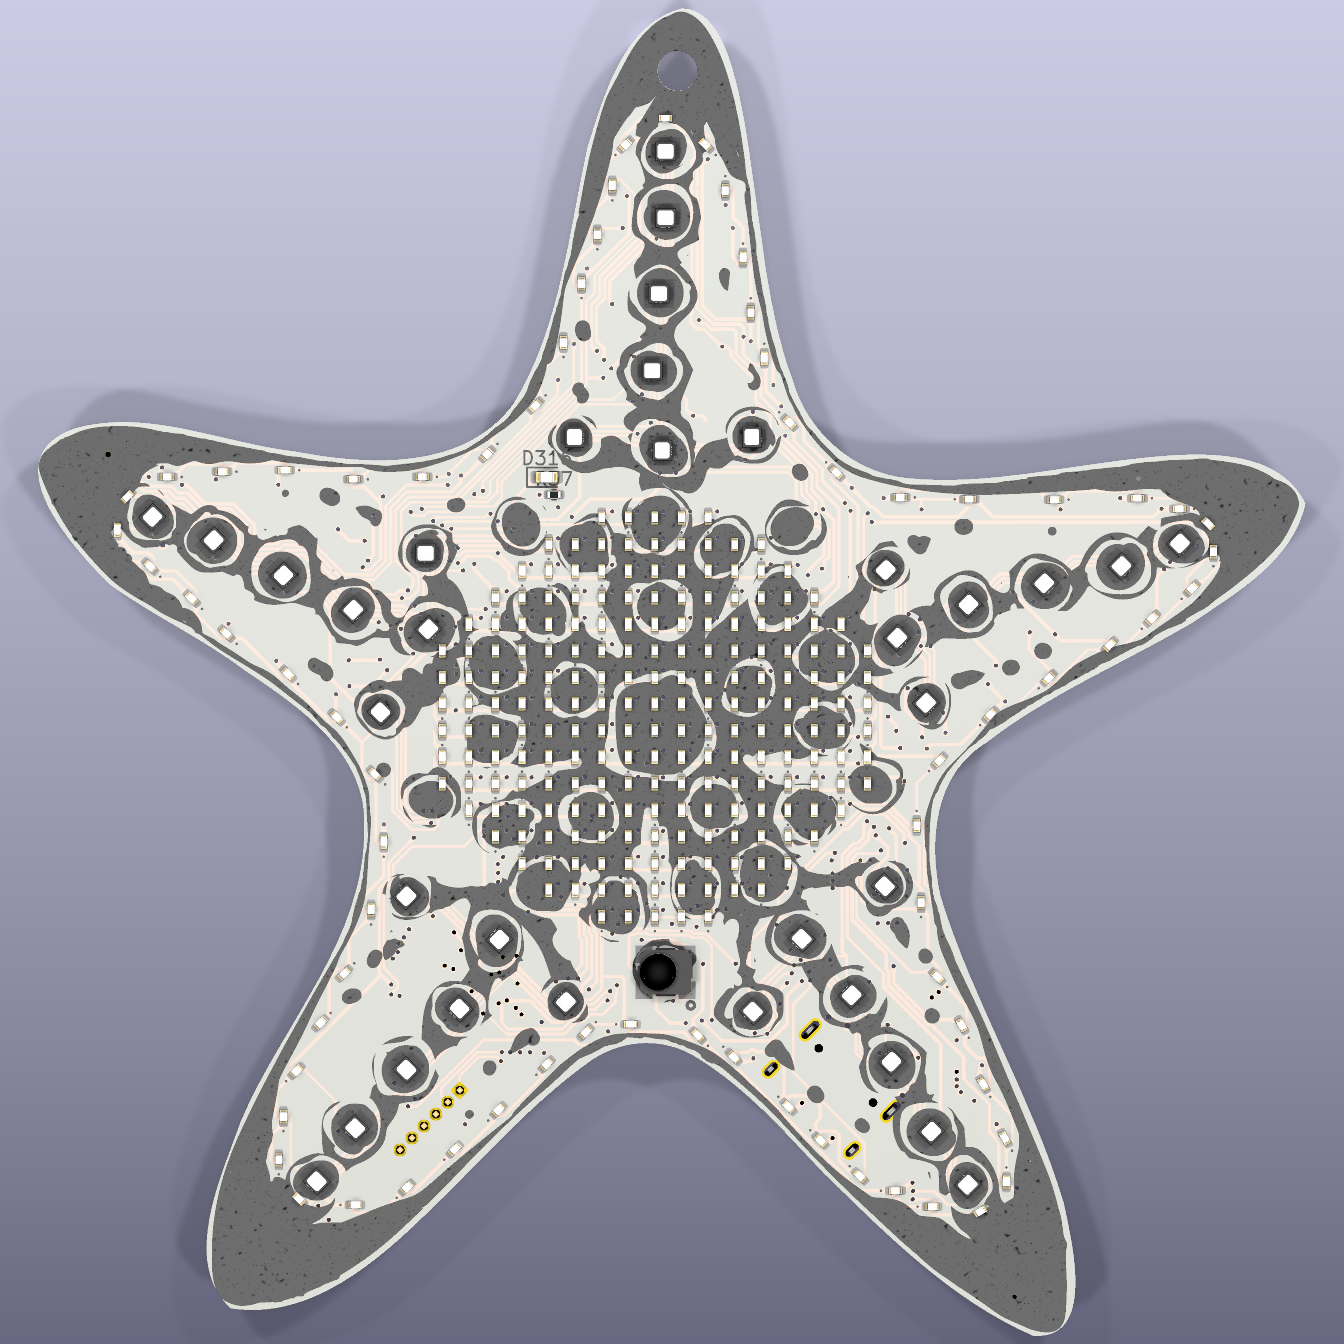
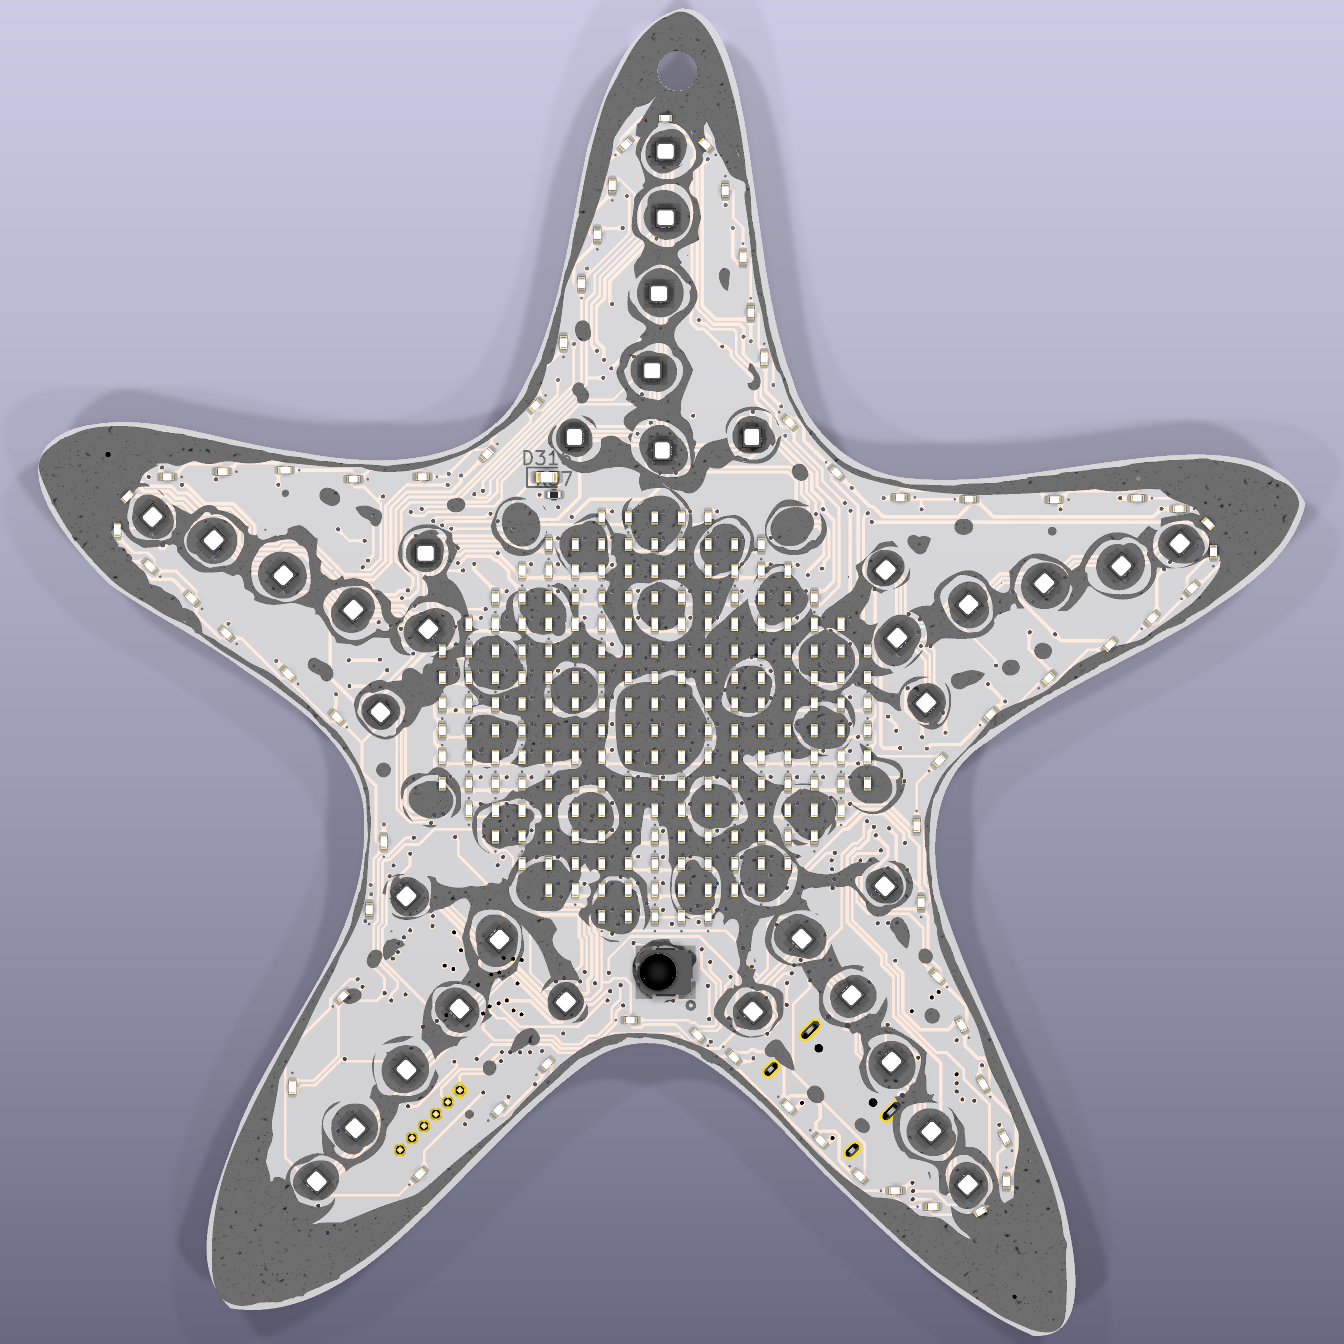
Follow hardware 1ce1163: 63 outline LEDs; fix the emulator's outline order
Hardware 1ce1163 took eight outline LEDs out "for now" (D3, D4, D12,
D19, D286, D289, D290, D309) and moved six (D1 now sits where D19 was);
no remaining LED changed nets. tools/gen_layout.py regenerates the
tables: 63 outline LEDs instead of 71, grid and RGB unchanged, 376 of
384 slots used. Every outline effect already takes its length from
EDGE_LEDS / EDGE.len().

The emulator interface had the outline count fixed at 71 in the frame
size: EMU_ABI 2 adds emu_edge_leds(), EMU_FRAME_MAX bounds a frame, and
emu.py checks the firmware and the board render agree.

Fixing that showed an older bug: tools/sim/hh2027.py sorted the outline
from the bottom (atan2 in -pi..pi) while gen_layout.py and so the
firmware start at the top, so the emulator and every docs GIF drew the
outline about half a turn out of place. Layout now sorts exactly as
gen_layout.py does (1/256 turn, ties in board order); checked identical
for this board and the previous one. Board render and LED data refreshed.

BRINGUP.md: scope VCC ripple with every LED on, as C4 (100 nF on VCC) is
out in 1ce1163.

Claude-Session: https://claude.ai/code/session_01JRoRnFujiuwJRADJPiRxt8

diff --git a/src/generated.rs b/src/generated.rs
@@ -33,14 +33,14 @@ pub const GRID: [[Slot; GRID_W]; GRID_H] = [
     [  NONE,   NONE,   NONE,   NONE,   NONE,   NONE,      6,      9,      7,      8,     10,   NONE,   NONE,   NONE,   NONE,   NONE,   NONE],
 ];
 
-/// Outline LEDs (71), clockwise starting at the top.
-pub const EDGE: [Slot; 71] = [
+/// Outline LEDs (63), clockwise starting at the top.
+pub const EDGE: [Slot; 63] = [
     289, 288, 280, 279, 265, 264, 256, 240, 112, 96, 88, 73,
     72, 87, 63, 64, 62, 50, 49, 48, 40, 39, 38, 37,
-    27, 26, 25, 24, 16, 15, 14, 380, 381, 382, 383, 13,
-    12, 11, 5, 4, 2, 3, 1, 0, 379, 378, 377, 352,
-    351, 350, 349, 348, 347, 341, 340, 339, 338, 337, 336, 328,
-    327, 326, 325, 315, 314, 313, 312, 304, 303, 290, 302,
+    27, 26, 0, 24, 16, 15, 14, 380, 381, 382, 383, 13,
+    12, 5, 4, 1, 379, 377, 350, 349, 347, 341, 340, 339,
+    338, 337, 336, 328, 327, 326, 325, 315, 314, 313, 312, 304,
+    303, 290, 302,
 ];
 
 #[derive(Clone, Copy)]
@@ -95,10 +95,10 @@ pub const RGB: [RgbLed; 35] = [
 /// Polar position of every slot, seen from the board centre:
 /// (radius in 0.25 mm, angle in 1/256 turn, 0 = up, clockwise).
 pub const POLAR: [(u8, u8); SLOTS] = [
-    (180, 154), (172, 151), (143, 146), (160, 148), (127, 144), (109, 141), (62, 139), (60, 128),
-    (60, 123), (60, 134), (62, 118), (97, 137), (92, 131), (96, 123), (159, 109), (169, 107),
+    (164, 100), (155, 148), (0, 0), (0, 0), (127, 144), (109, 141), (62, 139), (60, 128),
+    (60, 123), (60, 134), (62, 118), (0, 0), (91, 132), (96, 123), (159, 109), (169, 107),
     (178, 104), (153, 154), (173, 154), (130, 153), (106, 152), (90, 141), (82, 153), (92, 167),
-    (175, 102), (164, 100), (148, 98), (130, 96), (61, 151), (57, 146), (54, 141), (52, 128),
+    (175, 102), (0, 0), (148, 98), (130, 96), (61, 151), (57, 146), (54, 141), (52, 128),
     (52, 122), (52, 135), (54, 116), (57, 111), (61, 106), (115, 94), (97, 89), (85, 80),
     (86, 70), (153, 154), (173, 154), (130, 153), (106, 152), (90, 141), (82, 153), (92, 167),
     (100, 64), (119, 60), (138, 57), (60, 158), (54, 154), (50, 149), (47, 143), (44, 128),
@@ -138,17 +138,17 @@ pub const POLAR: [(u8, u8); SLOTS] = [
     (53, 6), (53, 249), (55, 12), (57, 17), (61, 22), (116, 219), (135, 216), (150, 213),
     (164, 211), (163, 207), (144, 208), (120, 207), (97, 206), (85, 217), (74, 207), (83, 193),
     (173, 208), (172, 206), (159, 204), (144, 202), (132, 200), (112, 197), (62, 245), (60, 0),
-    (61, 5), (61, 250), (62, 10), (96, 192), (86, 184), (90, 175), (104, 168), (121, 164),
-    (137, 162), (163, 207), (144, 208), (120, 207), (97, 206), (85, 217), (74, 207), (83, 193),
+    (61, 5), (61, 250), (62, 10), (96, 192), (0, 0), (90, 175), (104, 168), (0, 0),
+    (0, 0), (163, 207), (144, 208), (120, 207), (97, 206), (85, 217), (74, 207), (83, 193),
     (65, 195), (57, 195), (49, 196), (41, 196), (33, 197), (25, 199), (17, 202), (4, 251),
     (9, 43), (10, 211), (16, 53), (24, 57), (32, 59), (40, 60), (48, 60), (56, 61),
-    (64, 61), (152, 160), (164, 159), (175, 157), (151, 111), (136, 113), (124, 115), (105, 119),
+    (64, 61), (126, 162), (0, 0), (156, 160), (151, 111), (136, 113), (124, 115), (105, 119),
 ];
 
 /// The LED on each slot: D number, RGB colour in bits 13..12 (1 r, 2 g, 3 b), 0 = none.
 pub const SLOT_REF: [u16; SLOTS] = [
-    1, 2, 3, 4, 5, 6, 7, 8, 9, 10, 11, 12, 13, 14, 15, 16,
-    17, 4131, 4132, 4133, 4134, 4135, 4136, 4137, 18, 19, 20, 21, 22, 23, 24, 25,
+    1, 2, 0, 0, 5, 6, 7, 8, 9, 10, 11, 0, 13, 14, 15, 16,
+    17, 4131, 4132, 4133, 4134, 4135, 4136, 4137, 18, 0, 20, 21, 22, 23, 24, 25,
     26, 27, 28, 29, 30, 31, 32, 33, 34, 8227, 8228, 8229, 8230, 8231, 8232, 8233,
     42, 43, 44, 45, 46, 47, 48, 49, 50, 51, 52, 53, 54, 55, 56, 57,
     58, 12323, 12324, 12325, 12326, 12327, 12328, 12329, 59, 60, 61, 62, 63, 64, 65, 66,
@@ -168,9 +168,9 @@ pub const SLOT_REF: [u16; SLOTS] = [
     233, 234, 235, 236, 237, 238, 239, 240, 241, 242, 243, 244, 245, 246, 247, 248,
     249, 4363, 4364, 4365, 4366, 4367, 4368, 4369, 250, 251, 252, 253, 254, 255, 256, 257,
     258, 259, 260, 261, 262, 263, 264, 265, 266, 8459, 8460, 8461, 8462, 8463, 8464, 8465,
-    274, 275, 276, 277, 278, 279, 280, 281, 282, 283, 284, 285, 286, 287, 288, 289,
-    290, 12555, 12556, 12557, 12558, 12559, 12560, 12561, 291, 292, 293, 294, 295, 296, 297, 298,
-    299, 300, 301, 302, 303, 304, 305, 306, 307, 308, 309, 310, 311, 312, 313, 314,
+    274, 275, 276, 277, 278, 279, 280, 281, 282, 283, 284, 285, 0, 287, 288, 0,
+    0, 12555, 12556, 12557, 12558, 12559, 12560, 12561, 291, 292, 293, 294, 295, 296, 297, 298,
+    299, 300, 301, 302, 303, 304, 305, 306, 307, 308, 0, 310, 311, 312, 313, 314,
 ];
 
 /// 2.2 gamma, applied once when a frame is handed to the display.

diff --git a/c/src/generated.c b/c/src/generated.c
@@ -24,10 +24,10 @@ const slot_t GRID[GRID_H][GRID_W] = {
 const slot_t EDGE[EDGE_LEDS] = {
     289, 288, 280, 279, 265, 264, 256, 240, 112, 96, 88, 73,
     72, 87, 63, 64, 62, 50, 49, 48, 40, 39, 38, 37,
-    27, 26, 25, 24, 16, 15, 14, 380, 381, 382, 383, 13,
-    12, 11, 5, 4, 2, 3, 1, 0, 379, 378, 377, 352,
-    351, 350, 349, 348, 347, 341, 340, 339, 338, 337, 336, 328,
-    327, 326, 325, 315, 314, 313, 312, 304, 303, 290, 302,
+    27, 26, 0, 24, 16, 15, 14, 380, 381, 382, 383, 13,
+    12, 5, 4, 1, 379, 377, 350, 349, 347, 341, 340, 339,
+    338, 337, 336, 328, 327, 326, 325, 315, 314, 313, 312, 304,
+    303, 290, 302,
 };
 
 const rgb_led_t RGB[RGB_LEDS] = {
@@ -69,10 +69,10 @@ const rgb_led_t RGB[RGB_LEDS] = {
 };
 
 const uint8_t POLAR[SLOTS][2] = {
-    {180, 154}, {172, 151}, {143, 146}, {160, 148}, {127, 144}, {109, 141}, {62, 139}, {60, 128},
-    {60, 123}, {60, 134}, {62, 118}, {97, 137}, {92, 131}, {96, 123}, {159, 109}, {169, 107},
+    {164, 100}, {155, 148}, {0, 0}, {0, 0}, {127, 144}, {109, 141}, {62, 139}, {60, 128},
+    {60, 123}, {60, 134}, {62, 118}, {0, 0}, {91, 132}, {96, 123}, {159, 109}, {169, 107},
     {178, 104}, {153, 154}, {173, 154}, {130, 153}, {106, 152}, {90, 141}, {82, 153}, {92, 167},
-    {175, 102}, {164, 100}, {148, 98}, {130, 96}, {61, 151}, {57, 146}, {54, 141}, {52, 128},
+    {175, 102}, {0, 0}, {148, 98}, {130, 96}, {61, 151}, {57, 146}, {54, 141}, {52, 128},
     {52, 122}, {52, 135}, {54, 116}, {57, 111}, {61, 106}, {115, 94}, {97, 89}, {85, 80},
     {86, 70}, {153, 154}, {173, 154}, {130, 153}, {106, 152}, {90, 141}, {82, 153}, {92, 167},
     {100, 64}, {119, 60}, {138, 57}, {60, 158}, {54, 154}, {50, 149}, {47, 143}, {44, 128},
@@ -112,16 +112,16 @@ const uint8_t POLAR[SLOTS][2] = {
     {53, 6}, {53, 249}, {55, 12}, {57, 17}, {61, 22}, {116, 219}, {135, 216}, {150, 213},
     {164, 211}, {163, 207}, {144, 208}, {120, 207}, {97, 206}, {85, 217}, {74, 207}, {83, 193},
     {173, 208}, {172, 206}, {159, 204}, {144, 202}, {132, 200}, {112, 197}, {62, 245}, {60, 0},
-    {61, 5}, {61, 250}, {62, 10}, {96, 192}, {86, 184}, {90, 175}, {104, 168}, {121, 164},
-    {137, 162}, {163, 207}, {144, 208}, {120, 207}, {97, 206}, {85, 217}, {74, 207}, {83, 193},
+    {61, 5}, {61, 250}, {62, 10}, {96, 192}, {0, 0}, {90, 175}, {104, 168}, {0, 0},
+    {0, 0}, {163, 207}, {144, 208}, {120, 207}, {97, 206}, {85, 217}, {74, 207}, {83, 193},
     {65, 195}, {57, 195}, {49, 196}, {41, 196}, {33, 197}, {25, 199}, {17, 202}, {4, 251},
     {9, 43}, {10, 211}, {16, 53}, {24, 57}, {32, 59}, {40, 60}, {48, 60}, {56, 61},
-    {64, 61}, {152, 160}, {164, 159}, {175, 157}, {151, 111}, {136, 113}, {124, 115}, {105, 119},
+    {64, 61}, {126, 162}, {0, 0}, {156, 160}, {151, 111}, {136, 113}, {124, 115}, {105, 119},
 };
 
 const uint16_t SLOT_REF[SLOTS] = {
-    1, 2, 3, 4, 5, 6, 7, 8, 9, 10, 11, 12, 13, 14, 15, 16,
-    17, 4131, 4132, 4133, 4134, 4135, 4136, 4137, 18, 19, 20, 21, 22, 23, 24, 25,
+    1, 2, 0, 0, 5, 6, 7, 8, 9, 10, 11, 0, 13, 14, 15, 16,
+    17, 4131, 4132, 4133, 4134, 4135, 4136, 4137, 18, 0, 20, 21, 22, 23, 24, 25,
     26, 27, 28, 29, 30, 31, 32, 33, 34, 8227, 8228, 8229, 8230, 8231, 8232, 8233,
     42, 43, 44, 45, 46, 47, 48, 49, 50, 51, 52, 53, 54, 55, 56, 57,
     58, 12323, 12324, 12325, 12326, 12327, 12328, 12329, 59, 60, 61, 62, 63, 64, 65, 66,
@@ -141,9 +141,9 @@ const uint16_t SLOT_REF[SLOTS] = {
     233, 234, 235, 236, 237, 238, 239, 240, 241, 242, 243, 244, 245, 246, 247, 248,
     249, 4363, 4364, 4365, 4366, 4367, 4368, 4369, 250, 251, 252, 253, 254, 255, 256, 257,
     258, 259, 260, 261, 262, 263, 264, 265, 266, 8459, 8460, 8461, 8462, 8463, 8464, 8465,
-    274, 275, 276, 277, 278, 279, 280, 281, 282, 283, 284, 285, 286, 287, 288, 289,
-    290, 12555, 12556, 12557, 12558, 12559, 12560, 12561, 291, 292, 293, 294, 295, 296, 297, 298,
-    299, 300, 301, 302, 303, 304, 305, 306, 307, 308, 309, 310, 311, 312, 313, 314,
+    274, 275, 276, 277, 278, 279, 280, 281, 282, 283, 284, 285, 0, 287, 288, 0,
+    0, 12555, 12556, 12557, 12558, 12559, 12560, 12561, 291, 292, 293, 294, 295, 296, 297, 298,
+    299, 300, 301, 302, 303, 304, 305, 306, 307, 308, 0, 310, 311, 312, 313, 314,
 };
 
 const uint8_t GAMMA[256] = {

diff --git a/tools/emu/emu.py b/tools/emu/emu.py
@@ -47,8 +47,7 @@ REPO = HERE.parents[1]
 sys.path.insert(0, str(REPO / "tools" / "sim"))
 import hh2027 as h  # noqa: E402
 
-GH, GW, NE, NR = 16, 17, 71, 35
-FRAME_BYTES = GH * GW + NE + NR * 3
+GH, GW, NR = 16, 17, 35  # the outline's count comes from the firmware
 HOLD_MS, BOOT_MS = 600, 3000          # as buttons.rs
 PRESS, TAP, HOLD, CHARGING, BOOTLOADER, SELFTEST = range(6)
 
@@ -84,11 +83,13 @@ class Firmware:
         lib.emu_render.argtypes = [ctypes.c_uint8, ctypes.POINTER(ctypes.c_uint8)]
         lib.emu_render.restype = ctypes.c_uint32
         lib.emu_brightness.restype = ctypes.c_uint8
-        if lib.emu_abi() != 1:
-            sys.exit(f"{path}: emulator interface {lib.emu_abi()}, expected 1")
+        if lib.emu_abi() != 2:
+            sys.exit(f"{path}: emulator interface {lib.emu_abi()}, expected 2 (build it again?)")
+        lib.emu_edge_leds.restype = ctypes.c_uint32
         self.name = lib.emu_firmware().decode()
         self.fps = lib.emu_fps()
-        self.buf = (ctypes.c_uint8 * FRAME_BYTES)()
+        self.edge_leds = lib.emu_edge_leds()
+        self.buf = (ctypes.c_uint8 * (GH * GW + self.edge_leds + NR * 3))()
         self.has_usb = hasattr(lib, "emu_usb")
         if self.has_usb:
             lib.emu_usb.argtypes = [ctypes.POINTER(ctypes.c_uint8), ctypes.c_int, ctypes.POINTER(ctypes.c_uint8)]
@@ -318,7 +319,7 @@ class FastRenderer:
         for j, i in enumerate(L.edge):
             mono[i] = frame[GH * GW + j] / 255
         rgb = np.zeros((NR, 3))
-        rgb[self.rgb_index] = frame[GH * GW + NE:].reshape(NR, 3) / 255
+        rgb[self.rgb_index] = frame[-NR * 3:].reshape(NR, 3) / 255
         img = self.base.copy()
         for v, (y0, y1, x0, x1, col, hot) in zip(mono * gain, self.mono):
             if v > .004:
@@ -337,6 +338,9 @@ class App:
         self.console = console
         self.buttons = Buttons(fw.event)
         self.renderer = FastRenderer()
+        if len(self.renderer.L.edge) != fw.edge_leds:
+            sys.exit(f"the {fw.name} firmware has {fw.edge_leds} outline LEDs, the board render "
+                     f"{len(self.renderer.L.edge)}: run tools/sim/hh2027.py --refresh, or build it again")
         self.charging = False
         self.message, self.message_until = "", 0
         self.release_pending = {}

diff --git a/tools/sim/hh2027.py b/tools/sim/hh2027.py
@@ -5,7 +5,7 @@ Uses the real board: LED positions come from the KiCad PCB (via pcbnew) and the
 background is a KiCad 3D render of the top side, dimmed to look like a dark room.
 
   208 mono 0402 LEDs   17x16 octagonal grid in the centre, 2 mm pitch
-   71 mono 0402 LEDs   following the board outline
+   63 mono 0402 LEDs   following the board outline (71 before 1ce1163)
    35 RGB 1515 LEDs    7 per arm
 
 Usage:
@@ -119,8 +119,11 @@ class Layout:
         self.gmask = np.zeros((self.GH, self.GW), bool)
         for r, c in self.grid_rc.values():
             self.gmask[r, c] = True
+        # clockwise from the top, as tools/gen_layout.py orders the firmware's
+        # EDGE: by angle in 1/256 turn, ties in board order
         rel = mx[self.edge] - self.center
-        self.edge = [self.edge[j] for j in np.argsort(np.arctan2(rel[:, 0], -rel[:, 1]))]
+        turn = np.round(np.arctan2(rel[:, 0], -rel[:, 1]) % (2 * np.pi) / (2 * np.pi) * 256) % 256
+        self.edge = [self.edge[j] for j in np.argsort(turn, kind="stable")]
         self.mono_mm = mx
 
         # rgb: group by arm (angle sector), order centre -> tip
@@ -464,7 +467,7 @@ def charging(L, T=120):
             img *= .6 + .4 * math.sin((t - T * .8) / 2)
         m = L.grid_to_mono(img)
         for j, i in enumerate(L.edge):
-            m[i] = .25 * (.5 + .5 * math.sin(t / 6 + j / 71 * 2 * math.pi))
+            m[i] = .25 * (.5 + .5 * math.sin(t / 6 + j / len(L.edge) * 2 * math.pi))
         on = L.rank < lvl * 7
         rgb = np.where(on[:, None], hsv_arr(.33 * lvl * np.ones(L.nr)), 0) * .8
         fr.append((m, rgb))

diff --git a/tools/emu/badge_emu.h b/tools/emu/badge_emu.h
@@ -7,7 +7,7 @@
 #pragma once
 #include <stdint.h>
 
-#define EMU_ABI 1
+#define EMU_ABI 2
 
 /* events, as the button and charger code send them on the badge */
 enum {
@@ -20,16 +20,19 @@ enum {
 };
 
 /* one frame: grid (16 rows x 17 columns, 0 where the octagon has no LED),
- * outline (71, clockwise from the top), RGB (35 x r,g,b, arm 0..4 then rank
- * 0..6 from the centre); linear brightness 0..255 before gamma */
-#define EMU_FRAME_BYTES (16 * 17 + 71 + 35 * 3)
+ * outline (emu_edge_leds(), clockwise from the top), RGB (35 x r,g,b, arm
+ * 0..4 then rank 0..6 from the centre); linear brightness 0..255 before
+ * gamma. The outline count follows the board (tools/gen_layout.py), so a
+ * frame is 16 * 17 + emu_edge_leds() + 35 * 3 bytes, at most this: */
+#define EMU_FRAME_MAX (16 * 17 + 128 + 35 * 3)
 
 uint32_t emu_abi(void);            /* EMU_ABI */
 const char *emu_firmware(void);    /* "c" or "rust" */
 uint32_t emu_fps(void);
+uint32_t emu_edge_leds(void);      /* outline LEDs in a frame */
 void emu_init(void);               /* power on; also after a reboot */
 void emu_event(uint8_t kind, uint8_t arg);
-/* render the next frame into out[EMU_FRAME_BYTES]; held = buttons down
+/* render the next frame into out (see above for its size); held = buttons down
  * now, bit n = button n. Returns 1 when the firmware rebooted into the USB
  * boot ROM (call emu_init to power on again). */
 uint32_t emu_render(uint8_t held, uint8_t *out);

diff --git a/src/main.rs b/src/main.rs
@@ -5,7 +5,7 @@
 //!   * 384 LED slots in a 24 x 16 matrix: PA0..PA23 drive anodes (PWM),
 //!     PB0..PB15 sink cathodes (COM), scanned by the LEDPWM peripheral
 //!       - 208 mono LEDs in a 17 x 16 grid in the centre
-//!       -  71 mono LEDs along the outline
+//!       -  63 mono LEDs along the outline (71 before hardware 1ce1163)
 //!       -  35 RGB LEDs, 7 per arm (one PWM channel, three COMs each)
 //!   * four push buttons ◀ B A ▶ (PC4, PB20, PC5, PB18, active low; see buttons.rs)
 //!   * LiPo charger XT4054, CHRG status on PB22; VBUS sense on PC3

diff --git a/tools/sim/fwgif.py b/tools/sim/fwgif.py
@@ -7,7 +7,7 @@
 
 An output ending in .mp4 makes an H.264 video instead of a GIF.
 
-Each recorded frame is the grid (16 x 17), the outline (71), the RGB LEDs
+Each recorded frame is the grid (16 x 17), the outline (63 LEDs on the current board), the RGB LEDs
 by (arm, rank) (35 x 3), a byte of button state (bits 0-3 held, 4-7 pressed)
 and the brightness, as fwsim's dump() writes them.
 """

diff --git a/c/src/games/chase.c b/c/src/games/chase.c
@@ -1,5 +1,5 @@
 /* Star Chase, same as ../../../src/games/chase.rs: a light runs round the
- * 71 outline LEDs. Stop it (◀, B or ▶) beside the arm that is lit
+ * outline LEDs. Stop it (◀, B or ▶) beside the arm that is lit
  * green. Every hit speeds it up; three misses and it is over. The grid
  * shows the level. */
 #include <string.h>

diff --git a/tools/sim/games.py b/tools/sim/games.py
@@ -7,7 +7,7 @@ while the AI presses them.
 
   python3 tools/sim/games.py [--out=DIR] [--width=PX] [--no-mp4] [game ...]
 
-The playfield is the 17 x 16 octagonal grid; the 71 outline LEDs and the
+The playfield is the 17 x 16 octagonal grid; the outline LEDs and the
 35 RGB LEDs (7 per arm) carry score, lives and effects.
 """
 import random

diff --git a/c/test/test_soak.c b/c/test/test_soak.c
@@ -15,7 +15,7 @@ static uint32_t rnd(void) { seed ^= seed << 13; seed ^= seed >> 17; seed ^= seed
 int main(int argc, char **argv)
 {
     long frames = argc > 1 ? atol(argv[1]) : 200000;
-    uint8_t out[EMU_FRAME_BYTES], pkt[64];
+    uint8_t out[EMU_FRAME_MAX], pkt[64];
     uint8_t held = 0;
     int reboots = 0;
     emu_fresh();

diff --git a/c/emu/emu.c b/c/emu/emu.c
@@ -41,6 +41,7 @@ void reboot_to_boot_rom(void)
 EXPORT uint32_t emu_abi(void) { return EMU_ABI; }
 EXPORT const char *emu_firmware(void) { return "c"; }
 EXPORT uint32_t emu_fps(void) { return FPS; }
+EXPORT uint32_t emu_edge_leds(void) { return EDGE_LEDS; }
 EXPORT void emu_init(void)
 {
     name_t name;

diff --git a/src/games/chase.rs b/src/games/chase.rs
@@ -1,4 +1,4 @@
-//! Star Chase: a light runs round the 71 outline LEDs. Stop it (◀, B or
+//! Star Chase: a light runs round the outline LEDs. Stop it (◀, B or
 //! ▶) beside the arm that is lit green. Every hit speeds it up; three
 //! misses and it is over. The grid shows the level.
 
